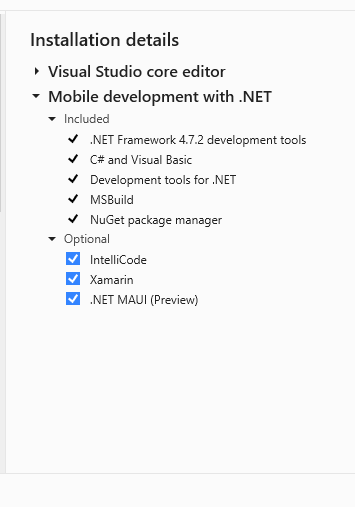
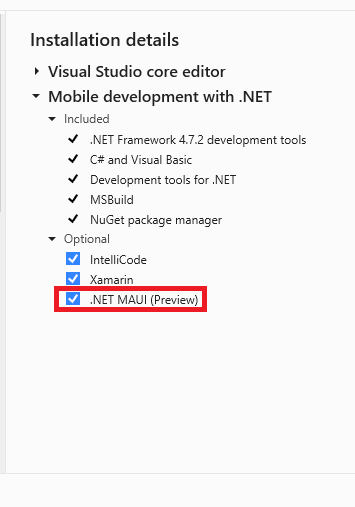
edited image for selection

Changed region(s): [[0.1549, 0.5621, 0.5887, 0.6213]]

diff --git a/docs/get-started/installation.md b/docs/get-started/installation.md
@@ -18,7 +18,7 @@ To create .NET MAUI apps, you'll need [Visual Studio 17.1 Preview 1](https://vis
 
   ![Visual Studio workloads for .NET MAUI.](media/installation/vs-workloads.png?raw=true)
 
-- Select optional Componenet and check if .NET MAUI is Checked 
+- Select optional Componenet and check if .NET MAUI is Checked.
 
   ![Visual Studio workloads- Optional Components for .NET MAUI.](media/installation/vs-installation-details.png?raw=true)
 
